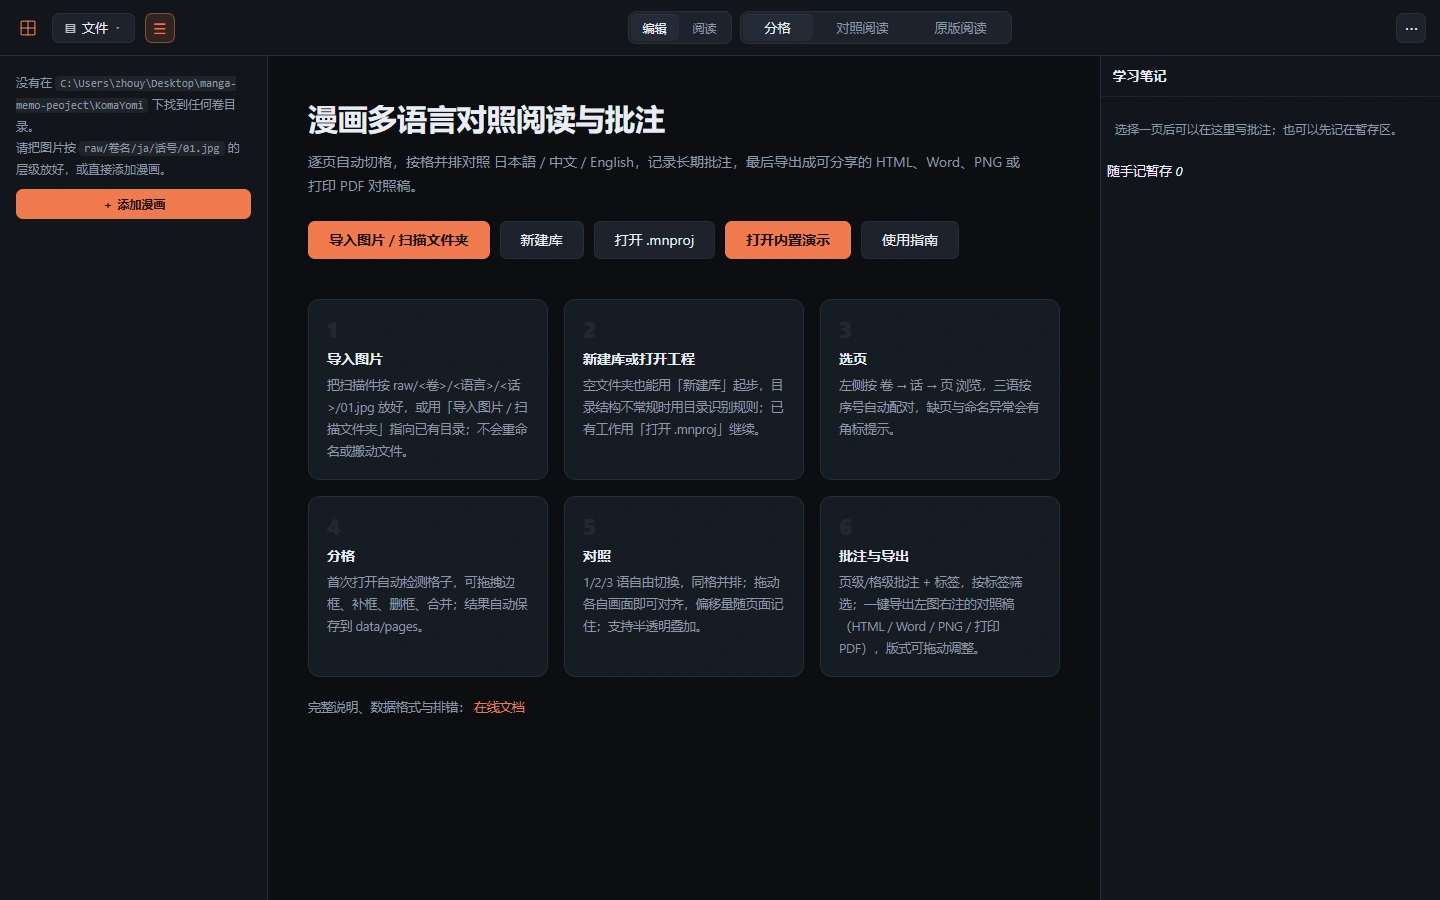
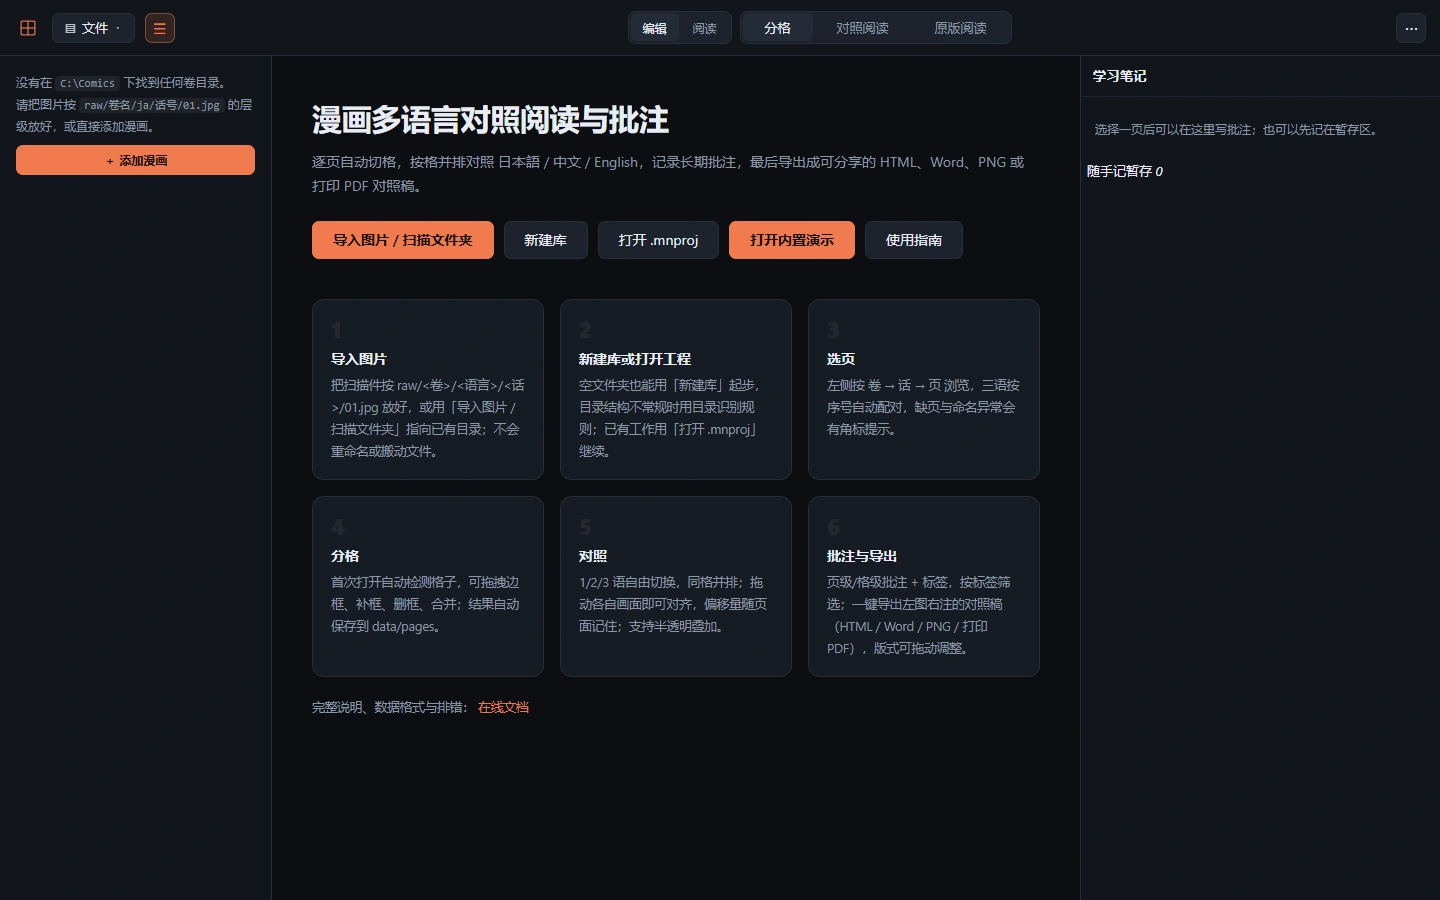
docs(screenshots): capture the welcome page with the built-in demo entry
The empty-library welcome screen now offers Try the built-in demo, and the

tour has six steps. Captions in all three languages mention the demo copy.

diff --git a/docs/ja/guide/installation.md b/docs/ja/guide/installation.md
@@ -114,8 +114,8 @@ exports/                   # generated HTML, PNG, backups, .mnproj (gitignored)
 - Electron ウィンドウは一時的な localhost ポートと通信します。
 
 <figure class="shot">
-  <img src="/assets/screenshots/first-launch-empty.webp" alt="初回起動の空のライブラリ。サイドバーに「＋ 漫画を追加」、中央に 4 ステップの案内">
-  <figcaption>初回起動でライブラリが空の状態。「＋ 漫画を追加」が入口で、中央の 4 枚のカードが流れを説明します。</figcaption>
+  <img src="/assets/screenshots/first-launch-empty.webp" alt="初回起動の空のライブラリ。サイドバーに「＋ 漫画を追加」、中央に 6 ステップの案内と「内蔵デモを開く」ボタン">
+  <figcaption>初回起動でライブラリが空の状態。取り込み・新規作成・プロジェクトを開くに加えて、「内蔵デモを開く」で同梱サンプルのコピーを展開できます。同梱ファイル自体は変更されません。</figcaption>
 </figure>
 
 ## 初回起動

diff --git a/docs/zh/guide/installation.md b/docs/zh/guide/installation.md
@@ -114,8 +114,8 @@ exports/                   # generated HTML, PNG, backups, .mnproj (gitignored)
 - Electron 窗口连接一个临时的 localhost 端口。
 
 <figure class="shot">
-  <img src="/assets/screenshots/first-launch-empty.webp" alt="首次启动的空图库：侧栏显示“＋ 添加漫画”，主区域显示四步导览">
-  <figcaption>首次启动时图库为空：左侧的“＋ 添加漫画”是入口，中间四张卡片概述了使用流程。</figcaption>
+  <img src="/assets/screenshots/first-launch-empty.webp" alt="首次启动的空图库：侧栏提示添加漫画，主区域是六步导览与“打开内置演示”入口">
+  <figcaption>首次启动时图库为空：除了导入、新建和打开工程，还可以直接“打开内置演示”——它解包随应用附带的示例工程的副本，原文件不会被改动。</figcaption>
 </figure>
 
 ## 首次运行

diff --git a/docs/guide/installation.md b/docs/guide/installation.md
@@ -74,8 +74,8 @@ Current limitations:
 - There is no auto-update channel.
 
 <figure class="shot">
-  <img src="/assets/screenshots/first-launch-empty.webp" alt="First launch with an empty library: the sidebar shows Add manga and the main area shows a four-step tour">
-  <figcaption>First launch with an empty library. ＋ Add manga is the way in; the four cards outline the workflow.</figcaption>
+  <img src="/assets/screenshots/first-launch-empty.webp" alt="First launch with an empty library: the sidebar offers Add manga, and the main area shows the six-step tour with a Try the built-in demo button">
+  <figcaption>First launch with an empty library. Besides importing, creating a library or opening a project, Try the built-in demo unpacks a copy of the bundled sample project, so the original file is never modified.</figcaption>
 </figure>
 
 ## Build outputs
